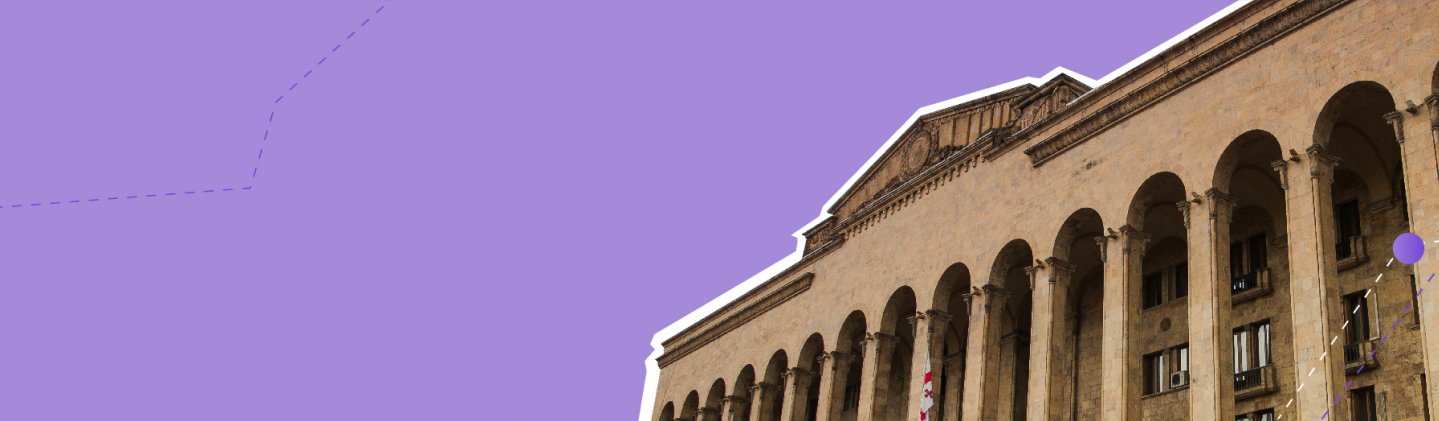
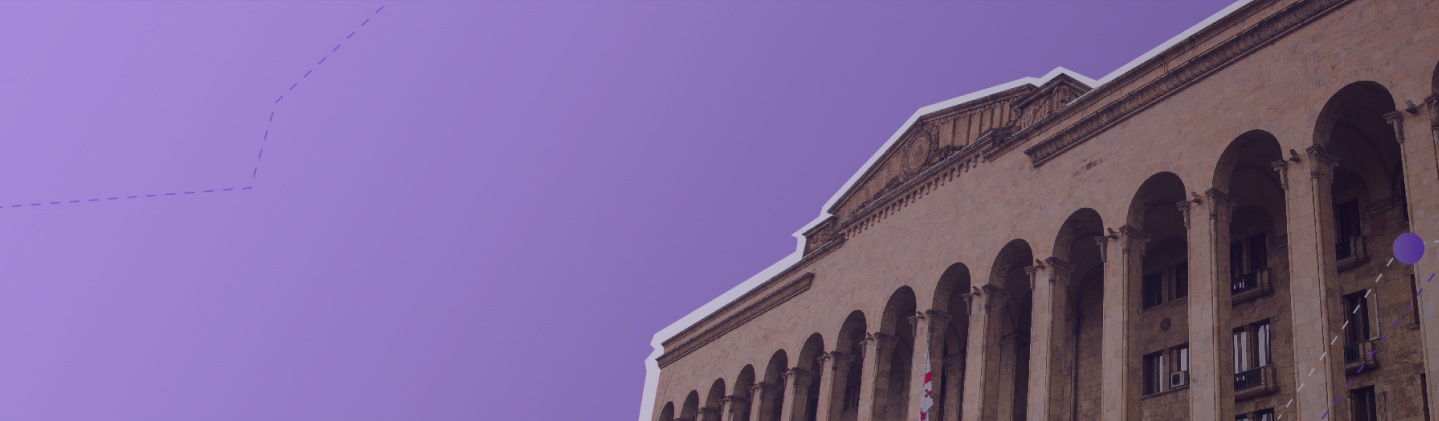
hero 1/2

diff --git a/app/assets/stylesheets/responsive/_frontpage_stats.scss b/app/assets/stylesheets/responsive/_frontpage_stats.scss
@@ -1,0 +1,151 @@
+.homepage-stats {
+    background-color: #552EBA;
+    color: #fff;
+
+    padding: 38px 0 60px;
+
+    .firstline {
+        padding-bottom: 60px;
+        border-bottom: 2px solid #BEBEBE;
+
+        .stats__intro {
+            width: 50%;
+            float: left;
+    
+            h2 {
+                font-size: 30px;
+                line-height: 40px;
+                margin-top: 0px;
+            }
+    
+            .description {
+                font-size: 16px;
+                line-height: 24px;
+            }
+        }
+    
+        .stats__browse {
+            width: 50%;
+            float: right;
+            padding-top: 40px;
+    
+            a {
+                display: block;
+                width: 203px;
+                height: 154px;
+                border-radius: 30px;
+    
+                color: #fff;
+                text-decoration: none;
+    
+                float: right;
+    
+                .count {
+                    display: block;
+                    font-size: 36px;
+                    padding: 55px 0 0 24px;
+                    font-weight: 700;
+                }
+    
+                .title {
+                    display: block;
+                    font-size: 16px;
+                    font-weight: 700;
+                    padding: 15px 0 0 24px;
+                    line-height: 130%;
+                }
+    
+                &.building {
+                    margin-left: 23px;
+                    background: $color-orange image-url('home-stats-building.svg') no-repeat 142px 18px;
+                }
+    
+                &.envelope {
+                    background: $color-orange image-url('home-stats-envelope.svg') no-repeat 131px 18px;
+                }
+    
+                &:hover {
+                    background-color: $color_deep_orange;
+                }
+            }
+        }
+    }
+
+
+
+    .tops {
+        padding-top: 65px;
+
+        .list {
+            width: 33%;
+            float: left;
+
+            padding: 0 46px 0 0;
+
+            &:nth-child(3){
+                padding: 0;
+            }
+
+            h3 {
+                margin-top: 0;
+                font-size: 18px;
+                padding-bottom: 12px;
+
+                border-bottom: 1px dotted #BEBEBE;
+            }
+
+            a {
+                display: block;
+                margin-bottom: 10px;
+                color: #fff;
+                text-decoration: none;
+
+                &:hover {
+                    .circle {
+                        background-color: $color_orange;
+                        box-shadow: 0px 0px 0 0.5px $color_orange;
+                    }
+                    .title {
+                        color: $color_orange;
+                    }
+                }
+                
+                .circle {
+                    float: left;
+                    width: 72px;
+                    height: 72px;
+                    border-radius: 50%;
+                    box-shadow: 0px 0px 0 0.5px #FFFFFF;
+                    text-align: center;
+
+                    overflow: hidden;
+
+                    .numb {
+                        display: block;
+                        font-size: 22px;
+                        font-weight: 700;
+                        padding: 16px 0 0;
+
+                    }
+
+                    .subtit {
+                        display: block;
+                        font-size: 10px;
+                        padding: 0;
+                        margin-top: -5px;
+                    }
+                }
+
+                .title {
+                    padding-left: 11px;
+                    height: 72px;
+
+                    font-size: 14px;
+
+                    display: table-cell;
+                    vertical-align: middle;
+                }
+            }
+        }
+    }
+}

diff --git a/app/assets/stylesheets/responsive/custom.scss b/app/assets/stylesheets/responsive/custom.scss
@@ -1062,7 +1062,7 @@ dt {
 }
 
 .homepage-hero {
-  background-color: $color_neutral_dark;
+  background: transparent;
   background-image: image-url('homepage-background-small.jpg');
   background-repeat: no-repeat;
   background-position: center top;
@@ -1071,8 +1071,8 @@ dt {
   padding: 2em 0 5em;
   position: relative;
   @include respond-min($main_menu-mobile_menu_cutoff) {
-    padding: 5em 0 8em;
-    background-image: image-url('home-banner.png');
+    padding: 5em 0 9em;
+    background-image: image-url('home-banner.png?v=2');
   }
 
   a {
@@ -1084,37 +1084,45 @@ dt {
     }
   }
 
-  .intro__title {
-    color: $color_white;
-    text-shadow: 0 1px 2px transparentize($color_black, 0.7);
+  .hero__new-request {
+    width: auto;
+    padding: 0;
   }
 
   .new-request__content {
-    background-color: $color_neutral_dark;
-    border-radius: 5px;
-    padding: 1.888888889em;
+    background-color: transparent;
+    //border-radius: 5px;
+    padding: 0;
   }
 
   .new-request__title {
     color: $color_white;
-    font-size: 1.4375em;
-    margin: 0 0 0.5em;
+    max-width: 550px;
+    font-size: 30px;
+    line-height: 40px;
+    margin: 0 0 15px;
   }
 
   .new-request__description {
-    color: transparentize($color_white, 0.2);
-    @include ie8 {
-      color: $color_white;
-    }
+    font-size: 16px;
+    color: $color_white;
+
+    margin: 0 0 22px;
   }
   .new-request__make-new-requests {
     @include button-base;
-    background-color: desaturate(darken($color_secondary, 10%), 5%);
+    background-color: $color_green;
     color: $color_white;
+    height: 60px;
+    line-height: 60px;
+    font-size: 18px;
+    padding: 0 40px;
+    border-radius: 30px;
+
     &:hover,
     &:active,
     &:focus {
-      background-color: darken($color_secondary, 20%);
+      background-color: darken($color_green, 10%);
     }
   }
 }
@@ -1141,3 +1149,7 @@ dt {
   font-size: 16px;
   color: #8a0c0c;
 }
+
+
+
+@import "responsive/_frontpage_stats";

diff --git a/app/assets/stylesheets/responsive/_settings.scss b/app/assets/stylesheets/responsive/_settings.scss
@@ -11,9 +11,10 @@ $logo-height: 53px;
 
 $color_sand: #f3f1eb;
 $color_black: #000000;
-$color_orange: #f4a140;
+$color_orange: #FF7A00;
+$color_deep_orange: #DC560A;
 $color_blue: #4faded;
-$color_green: #62b356;
+$color_green: #6FA957;
 $color_yellow: #ffd836;
 $color_red: #e04b4b;
 $color_violet: #a94ca6;
@@ -53,4 +54,4 @@ $action-color: $color_orange;
 $banner_inner_bg: #E6DEFC;
 $topnav_bg: #552EBA;
 
-$color-hover: #FF7A00
+$color-hover: #FF7A00;
